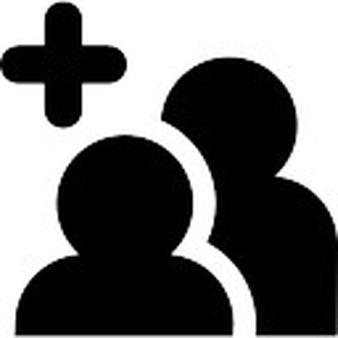
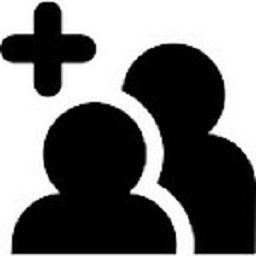
estilo2

diff --git a/cliente/views/index.html b/cliente/views/index.html
@@ -93,35 +93,42 @@
                       <h3>ASTEROIDES <3 </h3>
                       <p><em>We love naves!</em></p>
                       
-                      <br>
+                    
                       <div class="row">
                         <div class="col-sm-6">
-                          <p class="text-center"><strong>Salas</strong></p><br>
+                          <p class="text-center"><strong>Salas</strong></p>
                           <a href="#demo" data-toggle="collapse">
                             <img src="cliente/recursos/logo.jpg" class="img-circle person" alt="Random Name" width="255" height="255">
                           </a>
                           <div id="demo" class="collapse">
 
-                                    <td>
+                                       <td>
                                             <div class="form-group" id="formSel">
                                               
                                               <select class="form-control" id="sel1">
                                               </select>
-                                          </div>
+                                           </div>
                                       </td>
                                       <td>
-                                          <button type="button" class="btn btn-primary btn-block" id="unirmeBtn">Unirme a partida</button>
+                                          <button type="button" class="btn btn-primary btn-block" id="unirmeBtn">Unirme a sala</button>
                                       </td>                        
                           </div>
                         </div>
                         <div class="col-sm-6">
-                          <p class="text-center"><strong>Crear Sala</strong></p><br>
+                          <p class="text-center"><strong>Crear Sala</strong></p>
                           <a href="#demo2" data-toggle="collapse">
-                            <img src="cliente/recursos/añadir.jpg" class="img-circle person" alt="Random Name" width="255" height="255">
+                            <img src="cliente/recursos/logo.jpg" class="img-circle person" alt="Random Name" width="255" height="255">
                           </a>
                           <div id="demo2" class="collapse">
-                                <div id = "partida"></div>
-                                                              
+                               <!--   <td>
+                                     <input class="form-control"  id ="nombre" type="text">
+                                 </td>
+                                 <td>
+                                            
+                                       <button type = "button" class="btn btn-primary btn-block"  id = "btn" >Enviar</button>
+                                 </td>  -->
+                                   <div id = "partida"></div>  
+                                                                                      
                               
                           </div>
                         </div>

diff --git a/cliente/src/ini.js b/cliente/src/ini.js
@@ -35,9 +35,19 @@ function mostrarIntroducirPartida(){
 	var cadena;
 
 	cadena = "";
-	$('#cabecera').append(cadena);
-	cadena = cadena + "<input type='text' id ='nombre'>";
-	cadena = cadena + "<input type = 'submit' id = 'btn' value = 'Enviar'>";
+	/*$('#cabecera').append(cadena);*/
+
+	//cadena = cadena + "<form class='form-control'>";
+	
+	cadena = cadena + "<input class='form-control' id ='nombre' type='text'>";
+	
+	
+	cadena = cadena + "<input class='btn btn-primary btn-block'  id = 'btn' value = 'Enviar' type = 'button' >";
+
+/*
+	cadena = cadena + "</td>";*/
+	/*cadena = cadena + "</form>";*/
+
 
 /*	cadena = cadena + " <form class='form-horizontal'>";
 	cadena = cadena + "		<div class='form-group'>";

diff --git a/cliente/views/portada.css b/cliente/views/portada.css
@@ -4,8 +4,8 @@
   .person {
       border: 10px solid transparent;
       margin-bottom: 25px;
-      width: 80%;
-      height: 80%;
+      width: 45%;
+      height: 45%;
       opacity: 0.7;
   }
   .person:hover {
